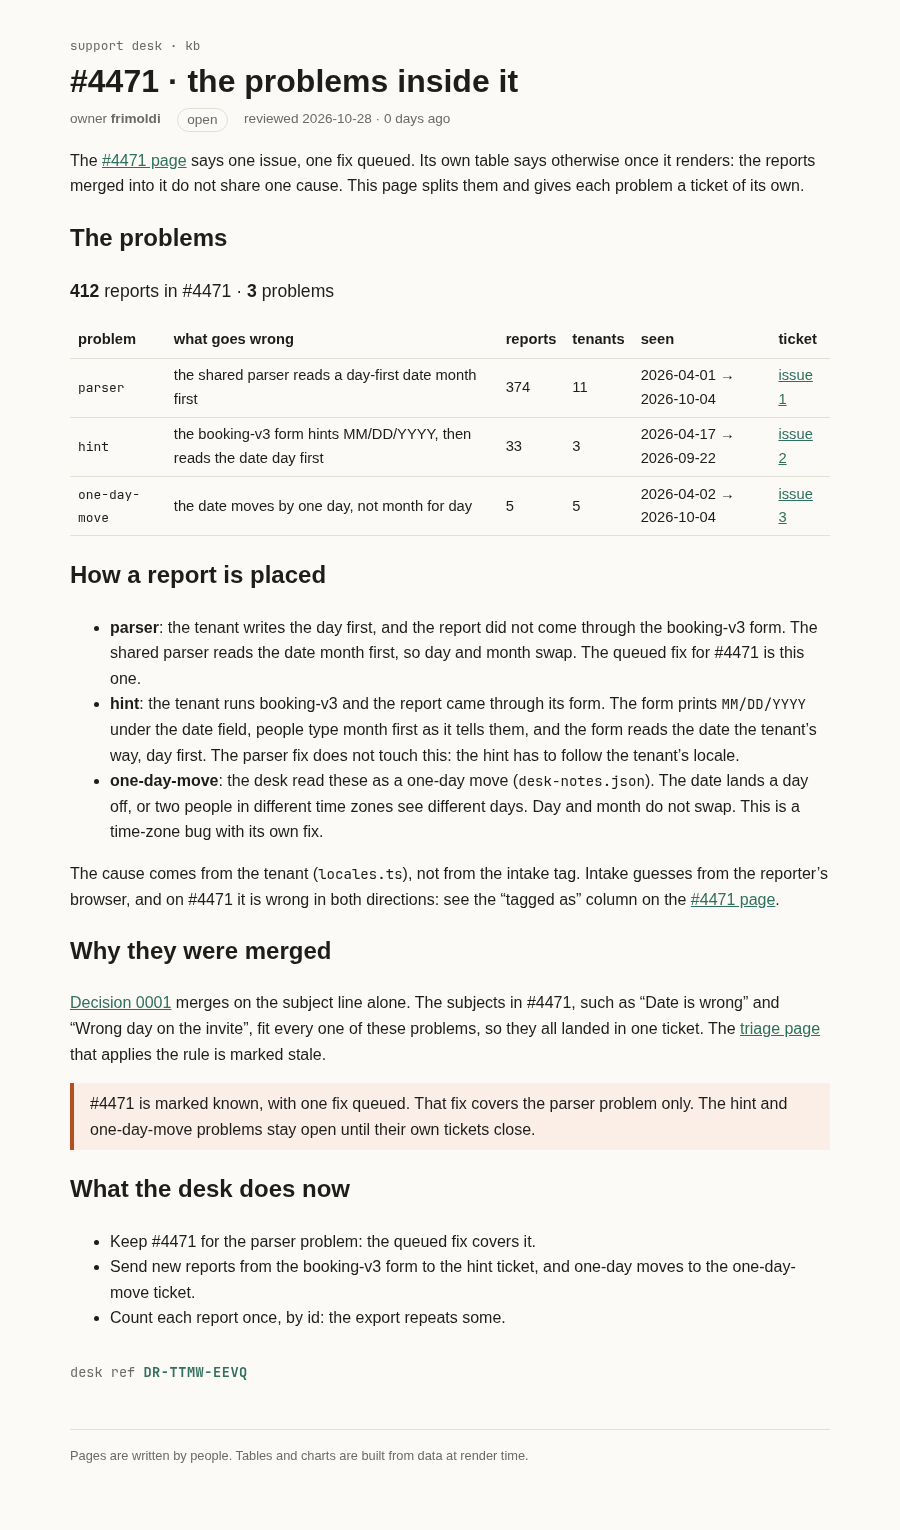
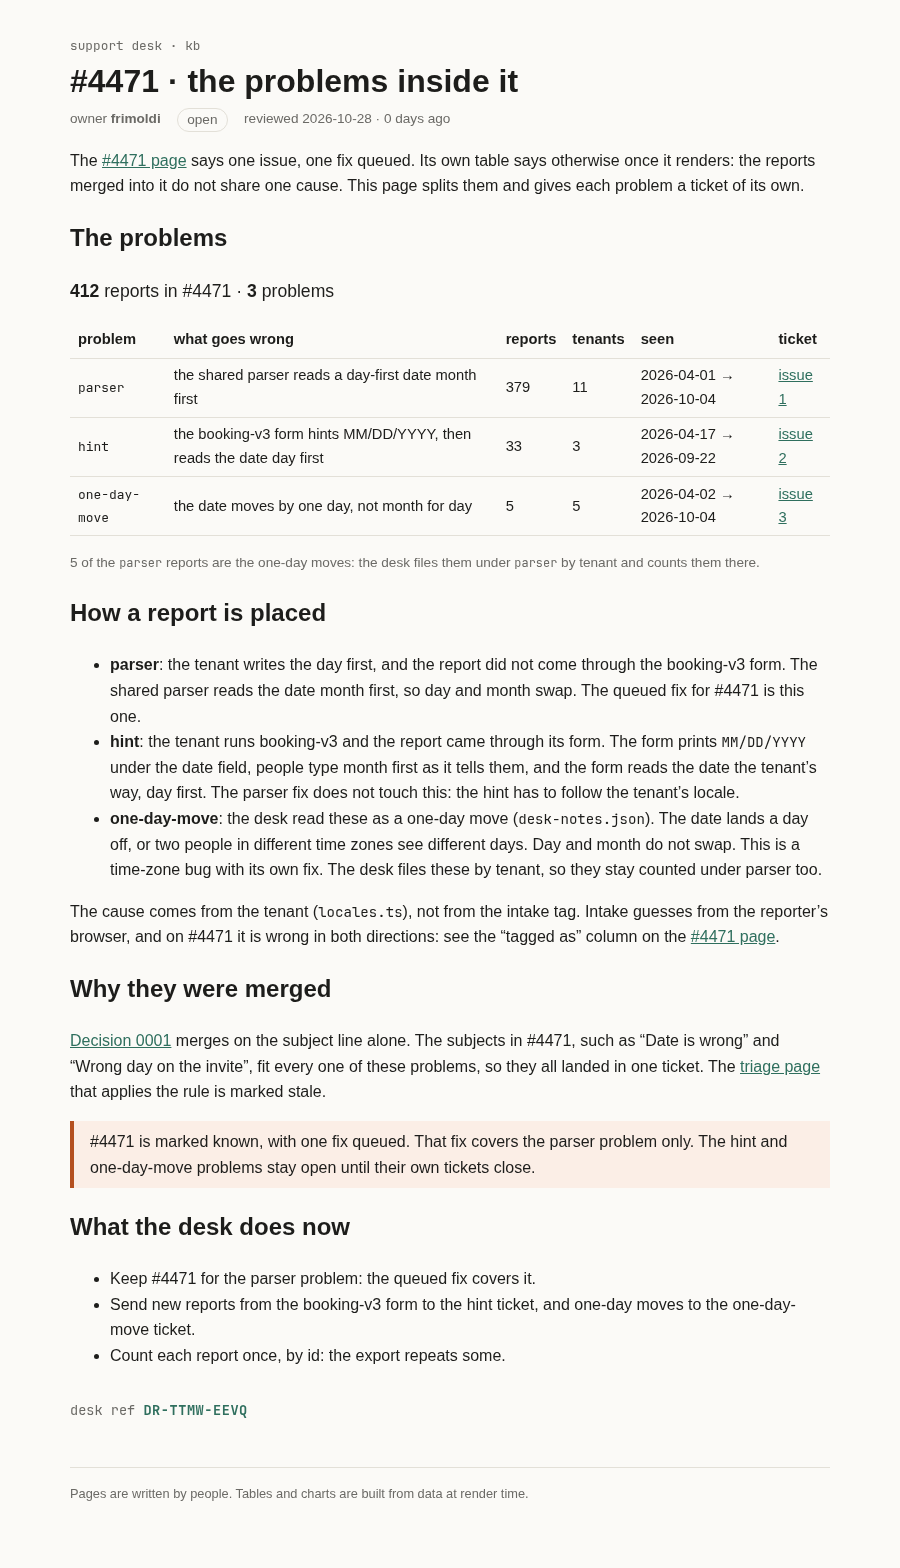
Count #4471 problems the desk's way
The desk counts a report where it files it, by tenant, so the five
one-day moves stay counted under parser (379) and also get their own
row. The page total is the unique reports in #4471 (412).

Changed region(s): [[0.0622, 0.0307, 0.9333, 0.9216], [0.84, 0.215, 0.9022, 0.3379], [0.6533, 0.8294, 0.8711, 0.8601]]

diff --git a/rendered/4471-problems.html b/rendered/4471-problems.html
@@ -8,22 +8,23 @@
 
 aside.svelte-17bri61{border-left:4px solid var(--accent);background:var(--note-bg);margin:1rem 0;padding:.5rem 1rem}aside.warn.svelte-17bri61{border-color:var(--warn);background:var(--warn-bg)}
 
-.sum.svelte-1op6c6{font-size:1.1rem}.open.svelte-1op6c6 td:where(.svelte-1op6c6):last-child{color:var(--warn);font-weight:600}.stamp.svelte-1280m42{font:.85rem var(--mono);color:var(--muted);margin:2rem 0 0}.stamp.svelte-1280m42 b:where(.svelte-1280m42){color:var(--accent);letter-spacing:.04em}.missing.svelte-1280m42{color:var(--warn)}
+.sum.svelte-1op6c6{font-size:1.1rem}.note.svelte-1op6c6{color:var(--muted);font-size:.85em}.open.svelte-1op6c6 td:where(.svelte-1op6c6):last-child{color:var(--warn);font-weight:600}.stamp.svelte-1280m42{font:.85rem var(--mono);color:var(--muted);margin:2rem 0 0}.stamp.svelte-1280m42 b:where(.svelte-1280m42){color:var(--accent);letter-spacing:.04em}.missing.svelte-1280m42{color:var(--warn)}
 </style>
 		<link href="../../../_app/immutable/assets/runbook.COyw0cbZ.css" rel="stylesheet" disabled media="(max-width: 0)">
 		<link href="../../../_app/immutable/assets/Callout.AbLv9dM_.css" rel="stylesheet" disabled media="(max-width: 0)">
-		<link href="../../../_app/immutable/assets/_page.De0Z6nLH.css" rel="stylesheet" disabled media="(max-width: 0)">
+		<link href="../../../_app/immutable/assets/_page.DcpIMyqv.css" rel="stylesheet" disabled media="(max-width: 0)">
   </head>
   <body>
     <div style="display: contents"><!--[--><!--[--><!--[0--><!--[--><!--[--><!--[-1--><!--[--><div class="kb svelte-e2jw2j"><header><a class="crumb svelte-e2jw2j" href="/kb">support desk · kb</a> <h1 class="svelte-e2jw2j">#4471 · the problems inside it</h1> <p class="meta svelte-e2jw2j"><span>owner <b>frimoldi</b></span> <span class="status open svelte-e2jw2j">open</span> <span class="svelte-e2jw2j">reviewed 2026-10-28 · 0 days ago</span></p></header> <!--[-1--><!--]--> <main><p>The <a href="/kb/incidents/4471">#4471 page</a> says one issue, one fix queued. Its own table says
 otherwise once it renders: the reports merged into it do not share one cause. This page splits
-them and gives each problem a ticket of its own.</p> <h2>The problems</h2> <p class="sum svelte-1op6c6"><strong>412</strong> reports in #4471 · <strong>3</strong> problems</p> <table><thead><tr><th>problem</th><th>what goes wrong</th><th>reports</th><th>tenants</th><th>seen</th><th>ticket</th></tr></thead><tbody><!--[--><tr class="svelte-1op6c6"><td class="svelte-1op6c6"><code>parser</code></td><td class="svelte-1op6c6">the shared parser reads a day-first date month first</td><td class="svelte-1op6c6">374</td><td class="svelte-1op6c6">11</td><td class="svelte-1op6c6">2026-04-01 → 2026-10-04</td><td class="svelte-1op6c6"><!--[0--><a href="https://github.com/frimoldi/mega-what-it-shows/issues/1">issue 1</a><!--]--></td></tr><tr class="svelte-1op6c6"><td class="svelte-1op6c6"><code>hint</code></td><td class="svelte-1op6c6">the booking-v3 form hints MM/DD/YYYY, then reads the date day first</td><td class="svelte-1op6c6">33</td><td class="svelte-1op6c6">3</td><td class="svelte-1op6c6">2026-04-17 → 2026-09-22</td><td class="svelte-1op6c6"><!--[0--><a href="https://github.com/frimoldi/mega-what-it-shows/issues/2">issue 2</a><!--]--></td></tr><tr class="svelte-1op6c6"><td class="svelte-1op6c6"><code>one-day-move</code></td><td class="svelte-1op6c6">the date moves by one day, not month for day</td><td class="svelte-1op6c6">5</td><td class="svelte-1op6c6">5</td><td class="svelte-1op6c6">2026-04-02 → 2026-10-04</td><td class="svelte-1op6c6"><!--[0--><a href="https://github.com/frimoldi/mega-what-it-shows/issues/3">issue 3</a><!--]--></td></tr><!--]--></tbody></table><!----> <h2>How a report is placed</h2> <ul><li><strong>parser</strong>: the tenant writes the day first, and the report did not come through the
+them and gives each problem a ticket of its own.</p> <h2>The problems</h2> <p class="sum svelte-1op6c6"><strong>412</strong> reports in #4471 · <strong>3</strong> problems</p> <table><thead><tr><th>problem</th><th>what goes wrong</th><th>reports</th><th>tenants</th><th>seen</th><th>ticket</th></tr></thead><tbody><!--[--><tr class="svelte-1op6c6"><td class="svelte-1op6c6"><code>parser</code></td><td class="svelte-1op6c6">the shared parser reads a day-first date month first</td><td class="svelte-1op6c6">379</td><td class="svelte-1op6c6">11</td><td class="svelte-1op6c6">2026-04-01 → 2026-10-04</td><td class="svelte-1op6c6"><!--[0--><a href="https://github.com/frimoldi/mega-what-it-shows/issues/1">issue 1</a><!--]--></td></tr><tr class="svelte-1op6c6"><td class="svelte-1op6c6"><code>hint</code></td><td class="svelte-1op6c6">the booking-v3 form hints MM/DD/YYYY, then reads the date day first</td><td class="svelte-1op6c6">33</td><td class="svelte-1op6c6">3</td><td class="svelte-1op6c6">2026-04-17 → 2026-09-22</td><td class="svelte-1op6c6"><!--[0--><a href="https://github.com/frimoldi/mega-what-it-shows/issues/2">issue 2</a><!--]--></td></tr><tr class="svelte-1op6c6"><td class="svelte-1op6c6"><code>one-day-move</code></td><td class="svelte-1op6c6">the date moves by one day, not month for day</td><td class="svelte-1op6c6">5</td><td class="svelte-1op6c6">5</td><td class="svelte-1op6c6">2026-04-02 → 2026-10-04</td><td class="svelte-1op6c6"><!--[0--><a href="https://github.com/frimoldi/mega-what-it-shows/issues/3">issue 3</a><!--]--></td></tr><!--]--></tbody></table> <!--[--><!--[0--><p class="note svelte-1op6c6">5 of the <code>parser</code> reports are the one-day moves: the desk files them under <code>parser</code> by tenant and counts them there.</p><!--]--><!--[-1--><!--]--><!--[-1--><!--]--><!--]--><!----> <h2>How a report is placed</h2> <ul><li><strong>parser</strong>: the tenant writes the day first, and the report did not come through the
 booking-v3 form. The shared parser reads the date month first, so day and month swap. The
 queued fix for #4471 is this one.</li> <li><strong>hint</strong>: the tenant runs booking-v3 and the report came through its form. The form prints <code>MM/DD/YYYY</code> under the date field, people type month first as it tells them, and the form
 reads the date the tenant’s way, day first. The parser fix does not touch this: the hint has
 to follow the tenant’s locale.</li> <li><strong>one-day-move</strong>: the desk read these as a one-day move (<code>desk-notes.json</code>). The date lands
 a day off, or two people in different time zones see different days. Day and month do not
-swap. This is a time-zone bug with its own fix.</li></ul> <p>The cause comes from the tenant (<code>locales.ts</code>), not from the intake tag. Intake guesses from
+swap. This is a time-zone bug with its own fix. The desk files these by tenant, so they stay
+counted under parser too.</li></ul> <p>The cause comes from the tenant (<code>locales.ts</code>), not from the intake tag. Intake guesses from
 the reporter’s browser, and on #4471 it is wrong in both directions: see the “tagged as”
 column on the <a href="/kb/incidents/4471">#4471 page</a>.</p> <h2>Why they were merged</h2> <p><a href="/kb/decisions/0001-dedupe-by-subject">Decision 0001</a> merges on the subject line alone. The
 subjects in #4471, such as “Date is wrong” and “Wrong day on the invite”, fit every one of

diff --git a/support-kb/src/lib/kb/problems.ts b/support-kb/src/lib/kb/problems.ts
@@ -1,6 +1,7 @@
-// The problems inside one big ticket. causes.ts files each report by its tenant; a report the
-// desk read as a one-day move (desk-notes.json) is a different bug, so it gets a problem of its own.
-import { groupByCause, uniqueById, type Cause, type Report, type Tenant } from '#lib/kb/causes';
+// The problems inside one big ticket, counted the desk's way. causes.ts files each report by its
+// tenant, and the desk counts a report where it is filed. A report the desk read as a one-day move
+// (desk-notes.json) is a different bug: it gets a row of its own and stays counted where it is filed.
+import { groupByCause, readAs, uniqueById, type Cause, type Report, type Tenant } from '#lib/kb/causes';
 
 export type Problem = Cause | 'unplaced' | 'one-day-move';
 
@@ -10,9 +11,11 @@ export type ProblemGroup = {
   tenants: number;
   firstSeen: string;
   lastSeen: string;
+  // How many of these reports are one-day moves too (0 for the one-day-move row itself).
+  oneDayMoves: number;
 };
 
-function summarize(problem: Problem, reports: Report[]): ProblemGroup {
+function summarize(problem: Problem, reports: Report[], oneDayMoves: number): ProblemGroup {
   const days = reports.map((r) => r.receivedAt.slice(0, 10)).sort();
   return {
     problem,
@@ -20,7 +23,12 @@ function summarize(problem: Problem, reports: Report[]): ProblemGroup {
     tenants: new Set(reports.map((r) => r.tenant)).size,
     firstSeen: days[0],
     lastSeen: days[days.length - 1],
+    oneDayMoves,
   };
+}
+
+export function mergedInto(all: Report[], ticket: number): Report[] {
+  return uniqueById(all).filter((r) => r.mergedInto === ticket);
 }
 
 export function problemsIn(
@@ -29,10 +37,9 @@ export function problemsIn(
   tenantOf: (r: Report) => Tenant | undefined,
   oneDayMove: readonly string[],
 ): ProblemGroup[] {
-  const merged = uniqueById(all).filter((r) => r.mergedInto === ticket);
+  const merged = mergedInto(all, ticket);
+  const groups = groupByCause(merged, tenantOf).map((g) => summarize(g.cause, g.reports, readAs(g, oneDayMove)));
   const moved = merged.filter((r) => oneDayMove.includes(r.id));
-  const rest = merged.filter((r) => !oneDayMove.includes(r.id));
-  const groups = groupByCause(rest, tenantOf).map((g) => summarize(g.cause, g.reports));
-  if (moved.length) groups.push(summarize('one-day-move', moved));
+  if (moved.length) groups.push(summarize('one-day-move', moved, 0));
   return groups.sort((a, b) => b.reports.length - a.reports.length);
 }

diff --git a/support-kb/src/lib/kb/ProblemTable.svelte b/support-kb/src/lib/kb/ProblemTable.svelte
@@ -3,7 +3,7 @@
   import notes from '#lib/data/desk-notes.json';
   import type { Report } from '#lib/kb/causes';
   import { tenantOf } from '#lib/kb/locales';
-  import { problemsIn, type Problem } from '#lib/kb/problems';
+  import { mergedInto, problemsIn, type Problem } from '#lib/kb/problems';
 
   // `issues`: the ticket filed for each problem, by problem.
   let { ticket, issues = {} }: { ticket: number; issues?: Partial<Record<Problem, string>> } = $props();
@@ -16,7 +16,7 @@
   };
 
   const groups = $derived(problemsIn(reports as Report[], ticket, tenantOf, notes.oneDayMove));
-  const total = $derived(groups.reduce((n, g) => n + g.reports.length, 0));
+  const total = $derived(mergedInto(reports as Report[], ticket).length);
   const ticketNo = (url: string) => url.match(/\/issues\/(\d+)/)?.[1];
 </script>
 
@@ -50,7 +50,14 @@
   </tbody>
 </table>
 
+{#each groups as g (g.problem)}
+  {#if g.oneDayMoves}
+    <p class="note">{g.oneDayMoves} of the <code>{g.problem}</code> reports are the one-day moves: the desk files them under <code>{g.problem}</code> by tenant and counts them there.</p>
+  {/if}
+{/each}
+
 <style>
   .sum { font-size: 1.1rem; }
+  .note { color: var(--muted); font-size: 0.85em; }
   .open td:last-child { color: var(--warn); font-weight: 600; }
 </style>

diff --git a/README.md b/README.md
@@ -4,11 +4,11 @@ The support desk merged 412 reports about dates into one ticket, `#4471`, and ma
 
 | Issue | Problem | Reports |
 |---|---|---|
-| [#1](../../issues/1) | The shared parser reads day-first dates month first | 374 |
+| [#1](../../issues/1) | The shared parser reads day-first dates month first | 379 |
 | [#2](../../issues/2) | The booking-v3 form hints `MM/DD/YYYY` to day-first tenants | 33 |
 | [#3](../../issues/3) | Dates move by one day across time zones | 5 |
 
-Counts are for the desk's export of 2026-10-04: 427 rows, 412 unique reports by id.
+Counts are the desk's, from its export of 2026-10-04: 427 rows, 412 unique reports by id. The desk files a report by tenant and counts it there, so the 5 one-day moves are counted under parser too.
 
 ## The kb page
 
